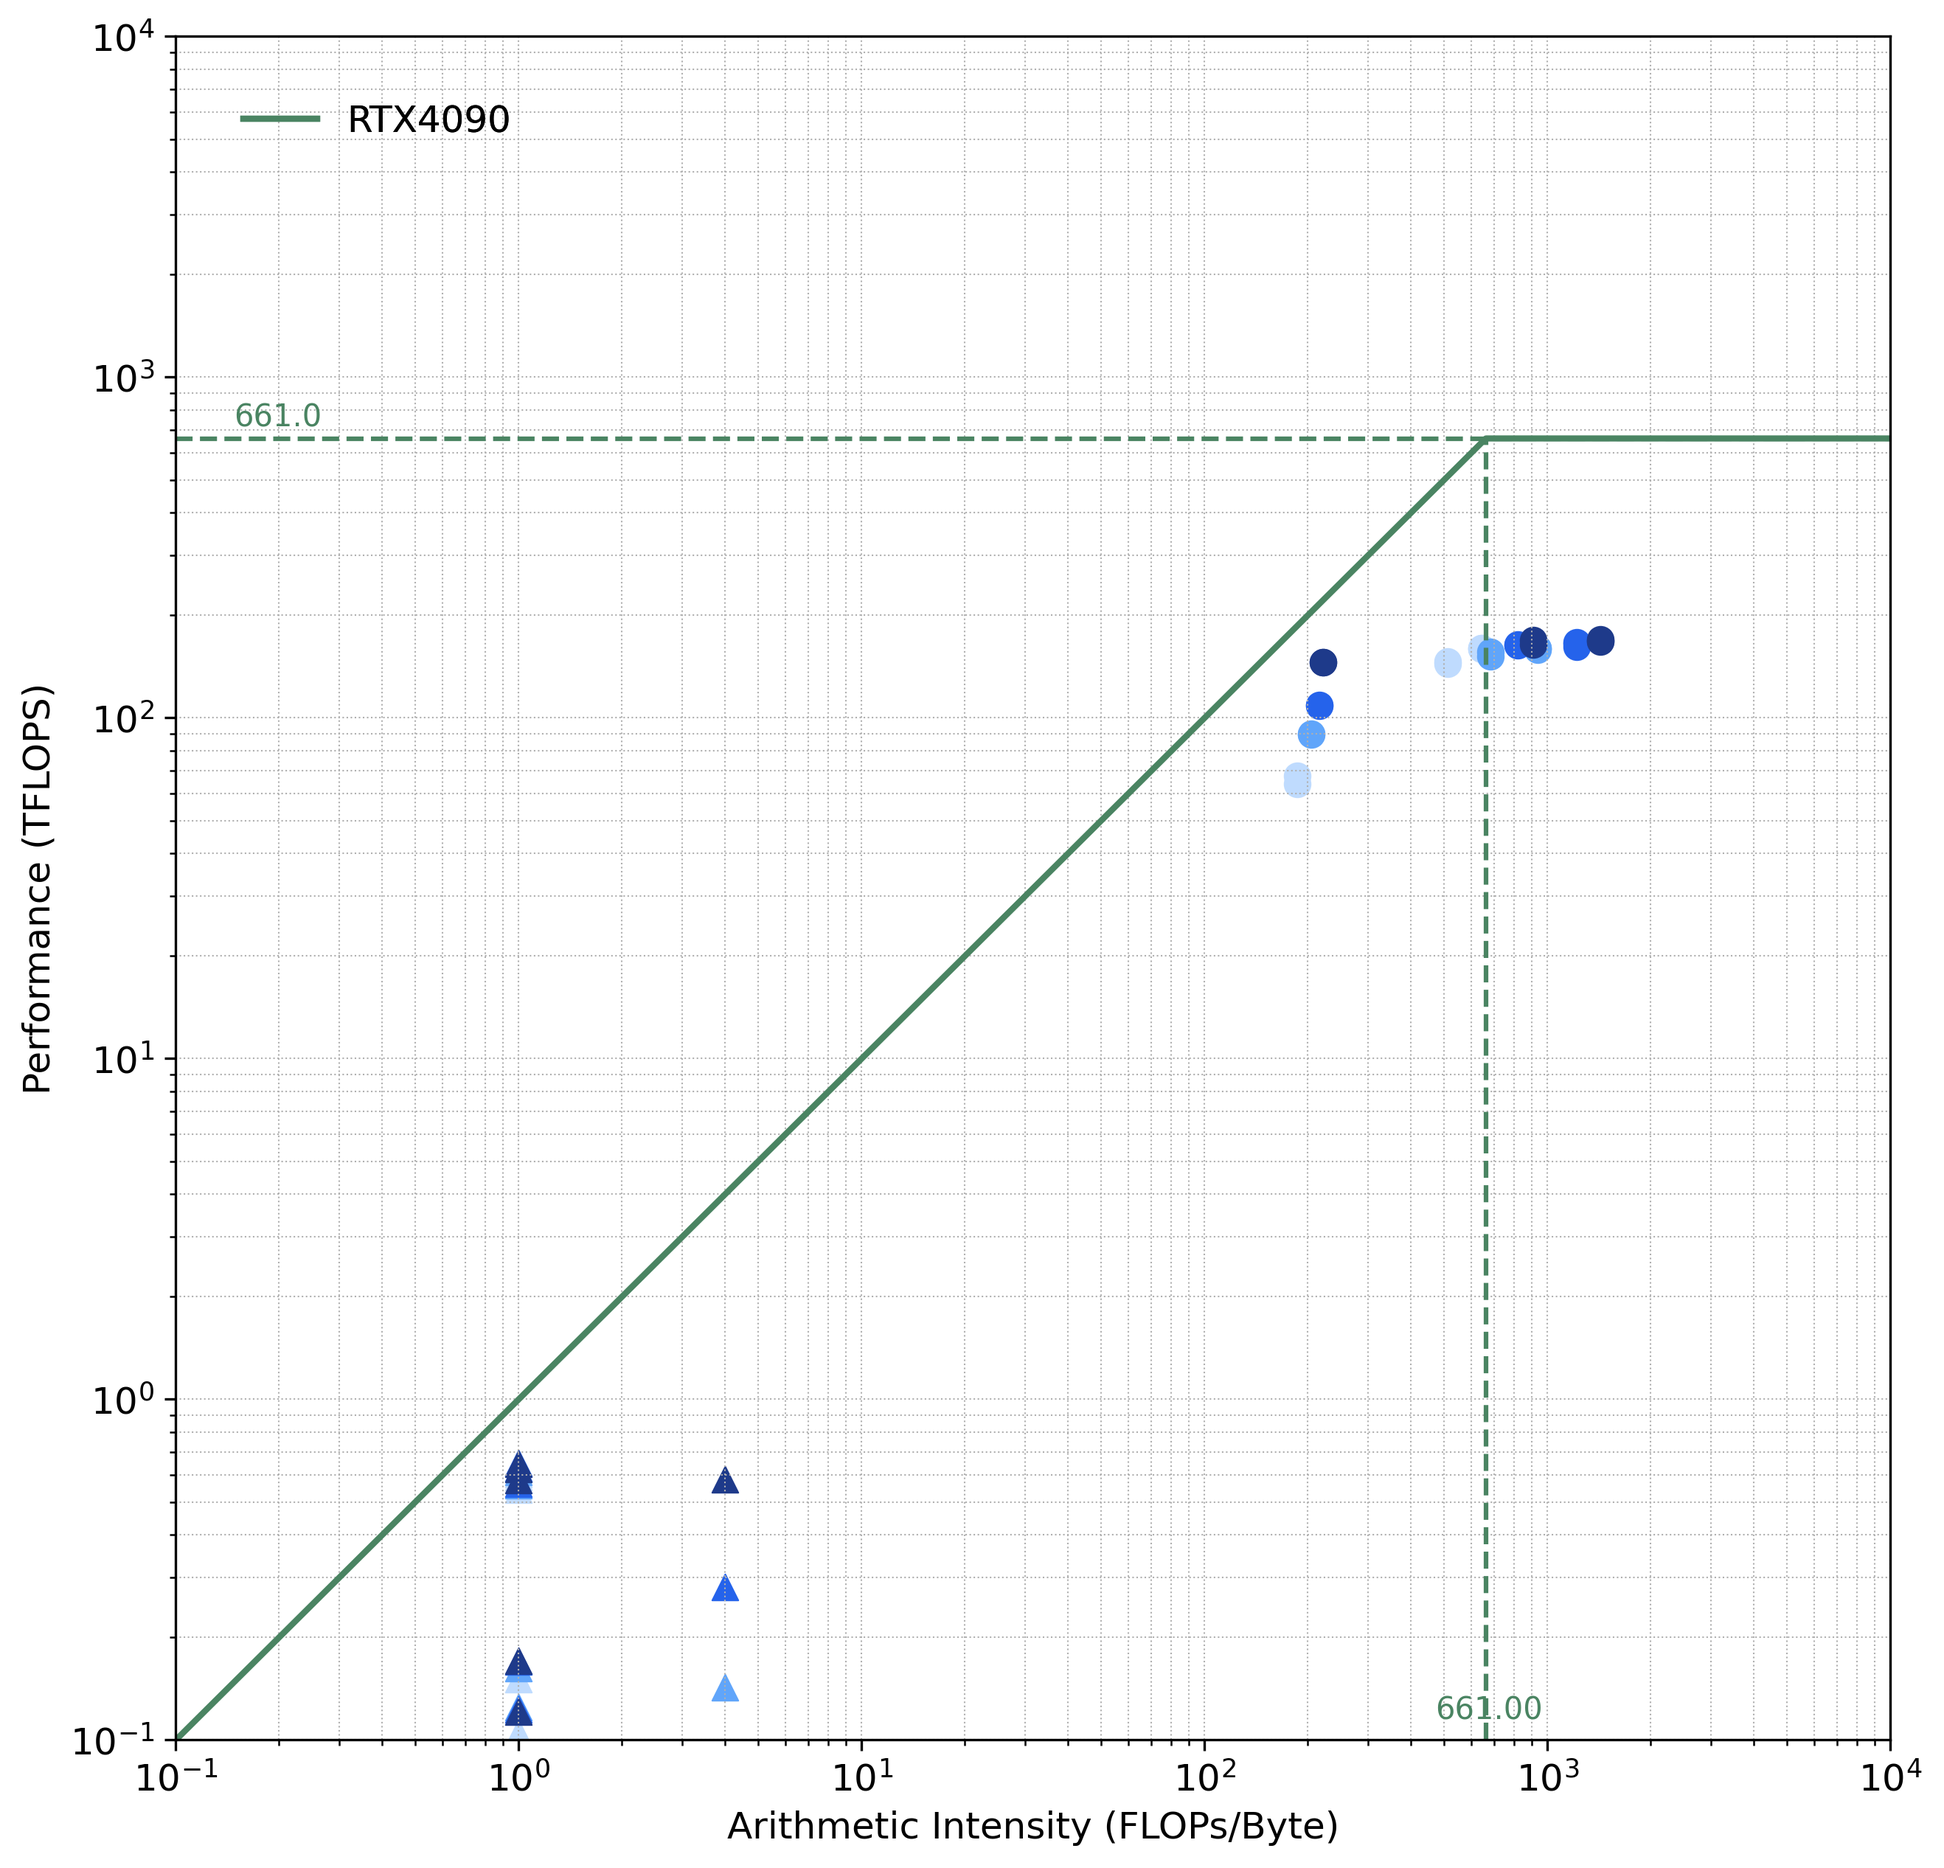
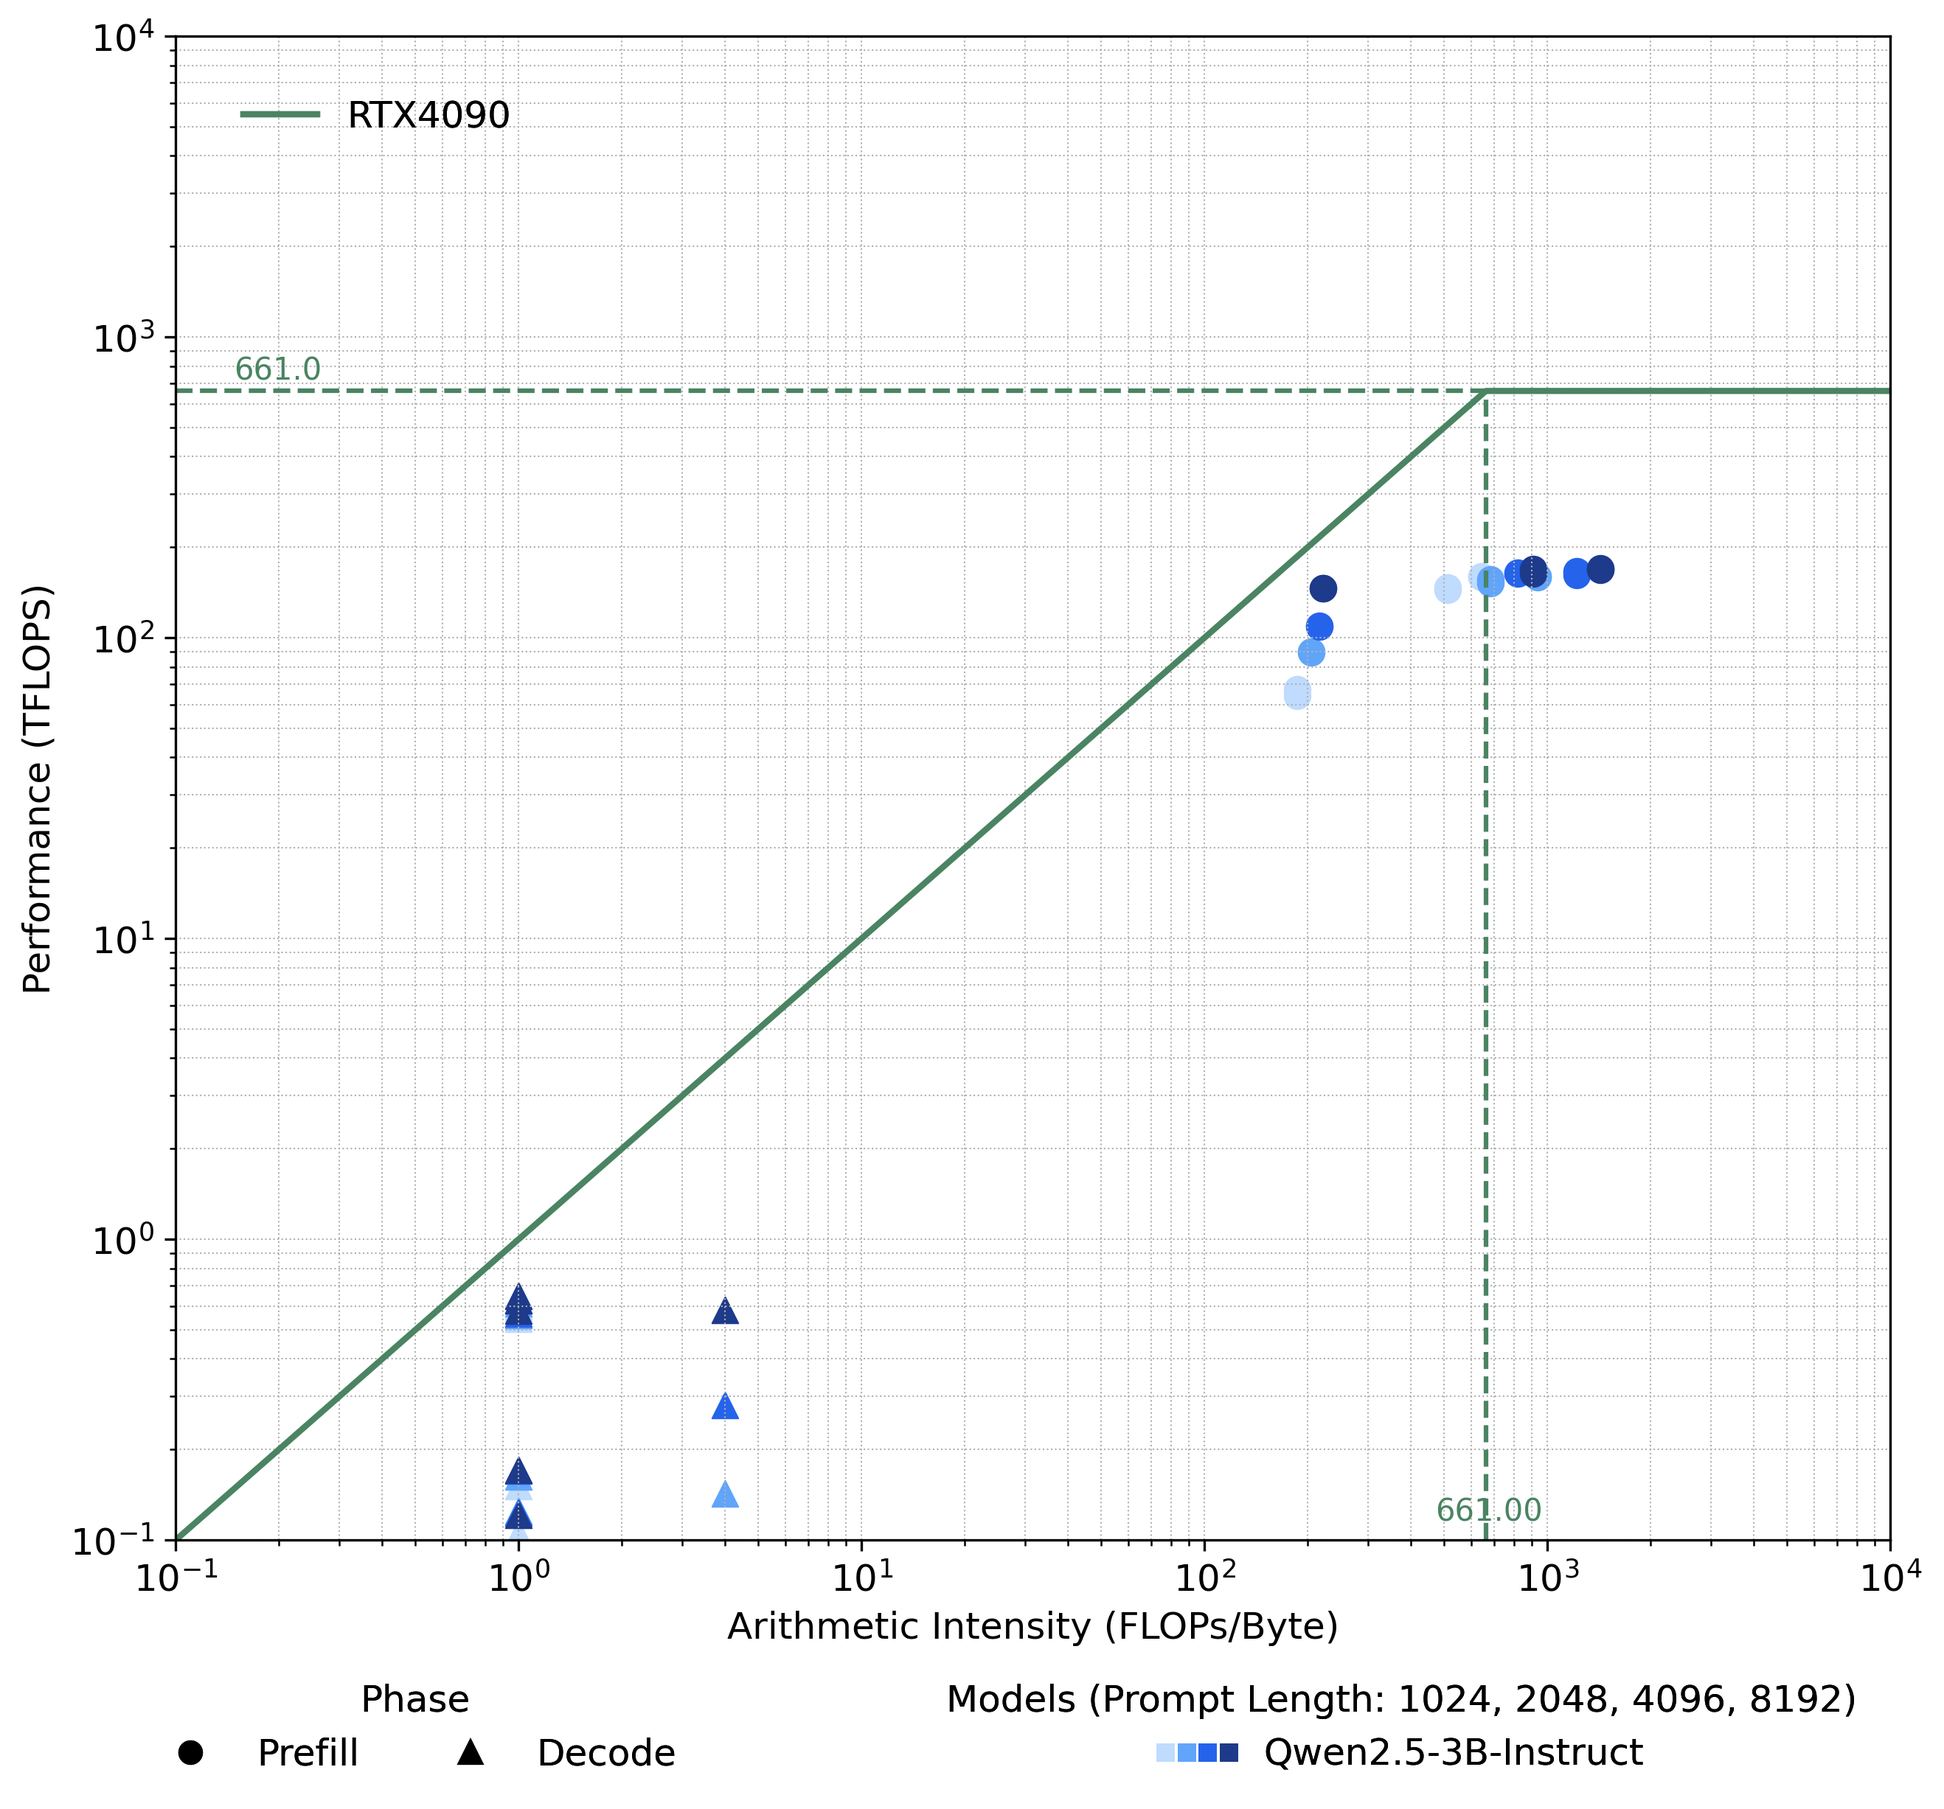
plot_roofline: add legend

diff --git a/plot/plot_roofline.py b/plot/plot_roofline.py
@@ -1,4 +1,6 @@
 import matplotlib.pyplot as plt
+from matplotlib.lines import Line2D
+from matplotlib.legend_handler import HandlerTuple
 import numpy as np
 import argparse
 import yaml
@@ -34,7 +36,7 @@ def get_leaf_dir(root_dir: str, model_name, batch_size, sum_seq_len, gen_seq_len
                 / f"gen-seq-len-{gen_seq_len}"
     return leaf_dir
 
-def plot_roofline(args, hardware_configs, point_datas, output_path: str, plot_config: dict):
+def plot_roofline(args, hardware_configs, point_datas, output_path: str, plot_config: dict, legend_config: dict):
     # ========== Set global style from config ==========
     fontsize = plot_config.get("fontsize", {})
     plt.rc('axes', labelsize=fontsize.get("labelsize", 18))
@@ -108,18 +110,40 @@ def plot_roofline(args, hardware_configs, point_datas, output_path: str, plot_co
                         fontsize=fontsize.get("legend_fontsize", 16),
                         title_fontsize=fontsize.get("legend_title_fontsize", 18))
         ax.add_artist(leg1)
-    
-    # # Draw the legends (only if handles present)
-    # if point_handles:
-    #     leg2 = ax.legend(point_handles, point_labels,
-    #                     loc=legend_cfg.get('loc', 'lower left'),
-    #                     bbox_to_anchor=legend_cfg.get('bbox_to_anchor', (0.02, 0.02)),
-    #                     ncol=legend_cfg.get('ncol', 2),
-    #                     frameon=legend_cfg.get('frameon', False),
-    #                     fontsize=fontsize.get("legend_fontsize", 16),
-    #                     title_fontsize=fontsize.get("legend_title_fontsize", 18))
-    #     ax.add_artist(leg2)
-    
+
+    # Add legend below figure for phase symbols and model color palettes
+    fig.subplots_adjust(bottom=0.20)
+
+    phase_handles = legend_config["phase_legend"]["handles"]
+    phase_leg = fig.legend(
+        phase_handles, ['Prefill', 'Decode'],
+        loc='lower left',
+        bbox_to_anchor=(0.10, 0.08),
+        ncol=2,
+        frameon=False,
+        title='Phase',
+        fontsize=fontsize.get("legend_fontsize", 16),
+        title_fontsize=fontsize.get("legend_title_fontsize", 18),
+    )
+    fig.add_artist(phase_leg)
+
+    model_handles = legend_config["model_legend"]["handles"]
+    model_labels = legend_config["model_legend"]["labels"]
+
+    if model_handles:
+        model_leg = fig.legend(
+            model_handles, model_labels,
+            handler_map={tuple: HandlerTuple(ndivide=None, pad=0.3)},
+            loc='lower right',
+            bbox_to_anchor=(0.90, 0.08),
+            ncol=min(2, len(model_handles)),
+            frameon=False,
+            title='Models (Prompt Length: 1024, 2048, 4096, 8192)',
+            fontsize=fontsize.get("legend_fontsize", 16),
+            title_fontsize=fontsize.get("legend_title_fontsize", 18),
+        )
+        fig.add_artist(model_leg)
+
     plt.savefig(output_path, dpi=plot_config.get('dpi', 300), bbox_inches='tight')
     return fig, ax
 
@@ -167,6 +191,7 @@ def main(args):
 
     ]
     symbols = ["o", "*", "o", "s"] #{'triangle': '^', 'circle': 'o', 'square': 's'},
+    
     for model_idx, model_name in enumerate(args.model_name_list): 
         for sum_seq_len_idx, sum_seq_len in enumerate(args.sum_seq_len_list):
             roofline_data_dir = get_leaf_dir(args.roofline_data_dir, model_name, args.batch_size, sum_seq_len, args.gen_seq_len)
@@ -204,11 +229,51 @@ def main(args):
                     print(f"Within roofline: {kernel['name']:10s} ({kernel['phase']}): throughput {kernel['throughput']:.2f} TFLOPS, arithmetic intensity {kernel['arithmetic_intensity']:.2f} FLOPs/Byte")
                 point_datas.append(point)
 
+    legends = {
+        "phase_legend": {},
+        "model_legend": {},
+    }
+    # Legend setting
+    model_handles = []
+    model_labels = []
+    for model_idx, model_name in enumerate(args.model_name_list):
+        if model_idx >= len(model_colors):
+            break
+        palette = model_colors[model_idx]
+        handle_tuple = tuple(
+            Line2D([0], [0], marker='s', linestyle='None', markersize=6,
+                   markerfacecolor=c, markeredgecolor='none')
+            for c in palette
+        )
+
+        # label
+        if model_name == "Qwen-Qwen2.5-3B-Instruct":
+            model_label = "Qwen2.5-3B-Instruct"
+        else:
+            model_label = model_name
+        model_handles.append(handle_tuple)
+        model_labels.append(model_label)
+    phase_handles = [
+        Line2D([0], [0], marker='o', linestyle='None', markerfacecolor='black',
+               markeredgecolor='black', markersize=7, label='Prefill'),
+        Line2D([0], [0], marker='^', linestyle='None', markerfacecolor='black',
+               markeredgecolor='black', markersize=7, label='Decode'),
+    ]
+    legend_config = {
+        "phase_legend": {
+            "handles": phase_handles,
+            "labels": ['Prefill', 'Decode'],
+        },
+        "model_legend": {
+            "handles": model_handles,
+            "labels": model_labels,
+        },
+    }
+    
 
 
 
-
-    plot_roofline(args, hardware_configs, point_datas, args.output_path, plot_config)
+    plot_roofline(args, hardware_configs, point_datas, args.output_path, plot_config, legend_config)
     print(f"Saved figure to {args.output_path}")
 
 
